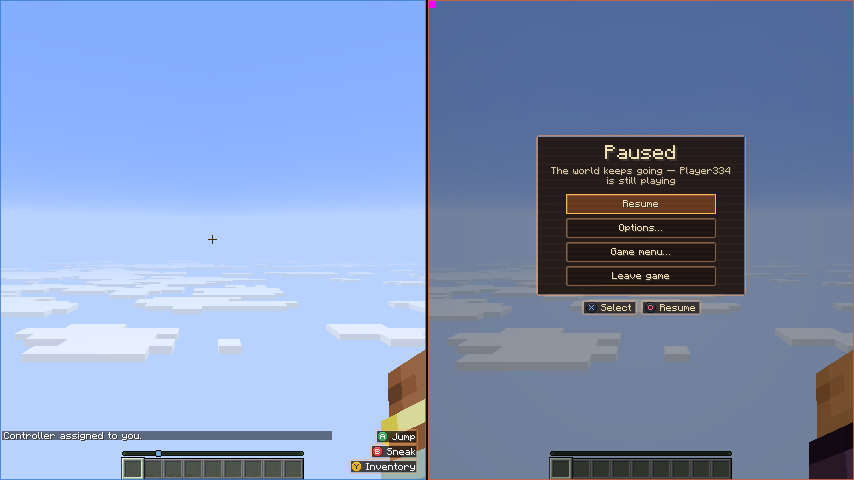
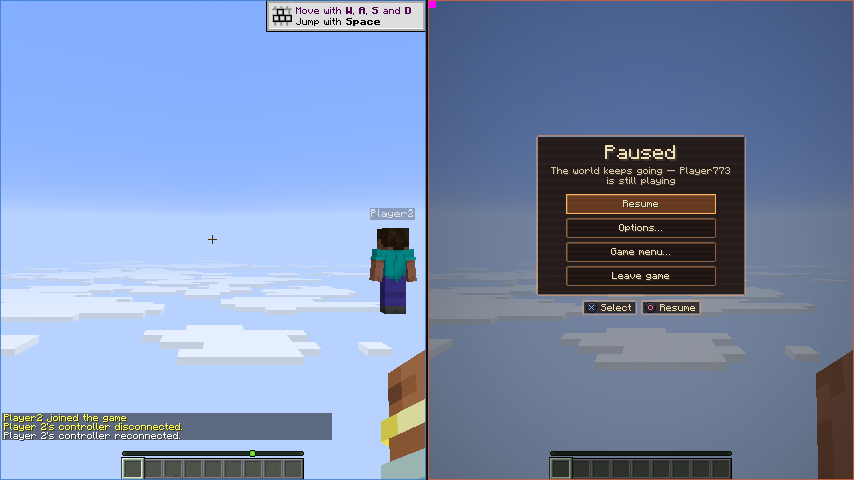
fix: take-over works in tiled windows

diff --git a/fabric/src/client/java/dev/hearthside/fabric/client/host/Party.java b/fabric/src/client/java/dev/hearthside/fabric/client/host/Party.java
@@ -1444,6 +1444,9 @@ public final class Party {
 		Integer index = slotOfController(from);
 		Integer instanceId = instanceOf.get(to);
 		if (index == null || instanceId == null) {
+			// Not expected: the press that took over recorded its controller, and the seat's slot lives as long as it.
+			HearthsideMod.LOGGER.warn("Hearthside could not hand {}'s player to {}: seat {}, controller {}", from, to,
+					index, instanceId);
 			return;
 		}
 		controllerOfSlot.put(index, to);
@@ -1459,6 +1462,10 @@ public final class Party {
 		sendToGuest(index, new ControlMessage.SetPadStyle(style));
 		sendToGuest(index, new ControlMessage.Lifecycle(LifecycleCommand.RESUME));
 		HearthsideMod.LOGGER.info("Hearthside take-over player={} controller={}", index + 1, guid);
+		if (!composite) {
+			// No card went away to show it: the chat says so.
+			chat(Component.literal("Player " + (index + 1) + " is playing on another controller now."));
+		}
 		Slot slot = slots.get(index);
 		GuestProfile profile = slot == null ? null : slot.profile;
 		if (profile != null && guid != null && !guid.equals(profile.preferredControllerGuid())) {
@@ -1666,16 +1673,17 @@ public final class Party {
 
 	/**
 	 * What a guest's reconnect card shows while their controller is disconnected (Spec E section 3.3), or null while
-	 * it's connected: who they are, and once the take-over is offered, the family of the free controllers that could
-	 * take them over (generic with none or a mix). Render thread.
+	 * it's connected: who they are, and while a free controller's A would take them over (the lowest seat offered, as
+	 * {@link JoinFlow#nextTakeover}), the family of the free controllers (generic with none or a mix). Render thread.
 	 */
 	dev.hearthside.fabric.client.ui.CardPainter.Reconnect reconnect(int seat) {
 		String controller = controllerOfSlot.get(seat);
 		dev.hearthside.core.session.SeatState state = controller == null ? null : flow.seats().get(controller);
-		boolean offered = state instanceof dev.hearthside.core.session.SeatState.TakeoverOffered;
-		if (!offered && !(state instanceof dev.hearthside.core.session.SeatState.Disconnected)) {
+		if (!(state instanceof dev.hearthside.core.session.SeatState.TakeoverOffered)
+				&& !(state instanceof dev.hearthside.core.session.SeatState.Disconnected)) {
 			return null;
 		}
+		boolean offered = flow.nextTakeover().filter(controller::equals).isPresent();
 		HostInput current = input;
 		PadStyle free = current == null || current.freePadCount() == 0 ? null : current.freePadStyle();
 		return new dev.hearthside.fabric.client.ui.CardPainter.Reconnect(who(seat), offered,
@@ -1747,10 +1755,15 @@ public final class Party {
 					}
 				}
 				case JoinFlow.Effect.OfferTakeover offer -> {
-					// Their reconnect card offers it from now on (it reads the seat's state each frame).
+					// Their reconnect card offers it from now on (it reads the seat's state each frame); with tiled windows
+					// nothing draws that card, so the chat says it.
 					Integer index = slotOfController(offer.controller());
 					if (index != null) {
 						HearthsideMod.LOGGER.info("Hearthside take-over offered player={}", index + 1);
+						if (!composite) {
+							chat(Component.literal("Player " + (index + 1) + "'s controller is still disconnected. "
+									+ "Press A on another controller to take over.").withStyle(ChatFormatting.YELLOW));
+						}
 					}
 				}
 				case JoinFlow.Effect.TookOver took -> takeOver(took.from(), took.to());

diff --git a/fabric/src/client/java/dev/hearthside/fabric/client/ui/CardPainter.java b/fabric/src/client/java/dev/hearthside/fabric/client/ui/CardPainter.java
@@ -122,8 +122,15 @@ public final class CardPainter {
 		int inner = cw - 12;
 		List<FormattedCharSequence> ask = font.split(Component.literal(RECONNECT), inner);
 		List<List<String>> offer = card.offerTakeover() ? wrap(font, TAKE_OVER, inner) : List.of();
-		int ch = 8 + 12 + 6 + ICON_H + 6 + ask.size() * 10 + (offer.isEmpty() ? 0 : 4 + offer.size() * 12) + 6;
-		Rect c = new Rect(view.x() + (view.width() - cw) / 2, view.y() + (view.height() - ch) / 2, cw, ch);
+		// Kept inside a short view (a small window, four players): first without the icon, then with the take-over line's
+		// first row only, cut short after it (the A and what it presses on stay).
+		int room = view.height() - 8;
+		boolean icon = height(ask.size(), offer.size(), true) <= room;
+		if (!icon && offer.size() > 1 && height(ask.size(), offer.size(), false) > room) {
+			offer = List.of(firstRowCut(font, offer.getFirst(), inner));
+		}
+		int ch = height(ask.size(), offer.size(), icon);
+		Rect c = new Rect(view.x() + (view.width() - cw) / 2, view.y() + Math.max(0, (view.height() - ch) / 2), cw, ch);
 		int colour = card.who().colour() & 0xFFFFFF;
 		cardBack(g, c, colour, 1f);
 		int centre = c.x() + cw / 2;
@@ -131,10 +138,12 @@ public final class CardPainter {
 		String name = font.plainSubstrByWidth(card.who().name(), inner - 10);
 		HearthDraw.colourPill(g, font, Component.literal(name), centre, y, colour);
 		y += 12 + 6;
-		// Their controller, lit in their colour as the real one is.
-		g.blitSprite(RenderPipelines.GUI_TEXTURED, HearthSprites.CONTROLLER, centre - ICON_W / 2, y, ICON_W, ICON_H,
-				0xFF000000 | colour);
-		y += ICON_H + 6;
+		if (icon) {
+			// Their controller, lit in their colour as the real one is.
+			g.blitSprite(RenderPipelines.GUI_TEXTURED, HearthSprites.CONTROLLER, centre - ICON_W / 2, y, ICON_W, ICON_H,
+					0xFF000000 | colour);
+			y += ICON_H + 6;
+		}
 		for (FormattedCharSequence line : ask) {
 			g.text(font, line, centre - font.width(line) / 2, y, HearthDraw.INK, false);
 			y += 10;
@@ -157,6 +166,28 @@ public final class CardPainter {
 
 	/** The controller icon on a reconnect card: the 13×9 sprite at twice its size. */
 	private static final int ICON_W = 26, ICON_H = 18;
+
+	/** A reconnect card's height: its pill, the icon if shown, the ask's lines and the take-over's rows. */
+	private static int height(int askLines, int offerRows, boolean icon) {
+		return 8 + 12 + 6 + (icon ? ICON_H + 6 : 0) + askLines * 10 + (offerRows == 0 ? 0 : 4 + offerRows * 12) + 6;
+	}
+
+	/** A take-over row that has to stand alone, ending in "…" (words dropped from its end until it fits). */
+	private static List<String> firstRowCut(Font font, List<String> row, int width) {
+		List<String> cut = new ArrayList<>(row);
+		while (true) {
+			List<String> shown = new ArrayList<>(cut);
+			if (shown.getLast().isEmpty()) {
+				shown.add("…");
+			} else {
+				shown.set(shown.size() - 1, shown.getLast() + "…");
+			}
+			if (cut.size() == 1 || lineWidth(font, shown) <= width) {
+				return shown;
+			}
+			cut.removeLast();
+		}
+	}
 
 	/** Words (the empty one a button glyph) in lines no wider than {@code width}. */
 	private static List<List<String>> wrap(Font font, List<String> words, int width) {

diff --git a/fabric/src/client/java/dev/hearthside/fabric/client/host/ViewOverlay.java b/fabric/src/client/java/dev/hearthside/fabric/client/host/ViewOverlay.java
@@ -171,6 +171,20 @@ final class ViewOverlay implements OverlayLayer {
 				guestView(g, font, view, compositor, context);
 			}
 		}
+		// A dropped controller (Spec E section 3.3): their view (their game, or the card they pick or join on) dims under
+		// a card until it's back or taken over. In a stratum of its own: a stratum draws its text after all its shapes, so
+		// the picker's or joining card's words would otherwise show through the veil and over the card.
+		boolean ownStratum = false;
+		for (ViewFrame view : context.views()) {
+			CardPainter.Reconnect reconnect = view.seat() == 0 ? null : party.reconnect(view.seat());
+			if (reconnect != null) {
+				if (!ownStratum) {
+					g.nextStratum();
+					ownStratum = true;
+				}
+				CardPainter.reconnect(g, font, view.rect(), reconnect);
+			}
+		}
 		// The free quarter with three players: the party panel and its live map, fading in and out with the layout.
 		party.panelAt(context.nanos(), context.reduceMotion()).ifPresent(panel -> {
 			Rect inGui = dev.hearthside.fabric.client.compositor.OverlayPass.inGui(panel.rect(), context.guiScale());
@@ -194,8 +208,8 @@ final class ViewOverlay implements OverlayLayer {
 
 	/**
 	 * What a guest's view shows over their game: their card until their game is in the world (never the bare window),
-	 * the frost over a picture at the wrong size, the reconnect card while their controller is away, and the fade of a
-	 * view with no picture yet.
+	 * the frost over a picture at the wrong size, and the fade of a view with no picture yet. (A dropped controller's
+	 * card is drawn over all of it afterwards.)
 	 */
 	private void guestView(GuiGraphicsExtractor g, Font font, ViewFrame view, Compositor compositor, OverlayContext context) {
 		Rect r = view.rect();
@@ -208,16 +222,9 @@ final class ViewOverlay implements OverlayLayer {
 		if (card != null) {
 			// Dropping in: they pick their profile right here, while everyone else plays on.
 			drawPicker(g, font, r, seat, card);
-		} else {
-			if (cover > 0f) {
-				CardPainter.joining(g, font, r, party.who(seat), party.cardStatus(seat, context.nanos()), cover,
-						context.nanos(), context.reduceMotion());
-			}
-			// Their controller dropped (Spec E section 3.3): their view dims under a card until it's back or taken over.
-			CardPainter.Reconnect reconnect = party.reconnect(seat);
-			if (reconnect != null) {
-				CardPainter.reconnect(g, font, r, reconnect);
-			}
+		} else if (cover > 0f) {
+			CardPainter.joining(g, font, r, party.who(seat), party.cardStatus(seat, context.nanos()), cover,
+					context.nanos(), context.reduceMotion());
 		}
 		// The compositor fades a view's picture itself; with no picture yet, fade the card drawn there instead, over
 		// whatever is under it (a view still gliding out of this place, or the divider).

diff --git a/fabric/src/client/java/dev/hearthside/fabric/client/dev/E2eDriver.java b/fabric/src/client/java/dev/hearthside/fabric/client/dev/E2eDriver.java
@@ -4342,7 +4342,10 @@ public final class E2eDriver {
 	 * N3 (Spec E section 3.2, plan R5): the world freezes only when everyone in it is paused. (a) Player 1 paused while
 	 * Player2 plays: the world runs and player 1's menu says who is still playing. (b) Player2 pausing too freezes it
 	 * within a second, and both menus say so; (d) a newcomer still choosing a profile doesn't count. (c) Player2 resuming
-	 * starts it again. Player 1's status is read from their menu's narration, Player2's from its log.
+	 * starts it again. Player 1's status is read from their menu's narration, Player2's from its log. First, Player2
+	 * pauses alone (START, then B) while player 1 plays: their menu draws "The world keeps going — <player 1> is still
+	 * playing" whole, wrapped as it needs and never cut short (from its layout log line; the status-line screenshot), and
+	 * player 1's menu draws its own status whole at (a) and (b).
 	 */
 	private void pauseTogether() throws Exception {
 		IntegratedServer server = minecraft.getSingleplayerServer();

diff --git a/core/src/main/java/dev/hearthside/core/session/JoinFlow.java b/core/src/main/java/dev/hearthside/core/session/JoinFlow.java
@@ -111,7 +111,7 @@ public final class JoinFlow {
 		if (control == Control.A) {
 			if (!seats.containsKey(controller)) {
 				// Only in the world (plan ruling P-10): in the lobby a free controller's A takes a free seat as ever.
-				String dropped = mode == Mode.IN_GAME ? lowestTakeoverOffered() : null;
+				String dropped = nextTakeover().orElse(null);
 				if (dropped != null) {
 					int seat = seats.get(dropped);
 					List<Effect> effects = new ArrayList<>(reassign(dropped, controller).effects());
@@ -331,7 +331,7 @@ public final class JoinFlow {
 
 	/** The dropped controller whose player a free controller's A would take over now, if any. */
 	public java.util.Optional<String> nextTakeover() {
-		return java.util.Optional.empty();
+		return java.util.Optional.ofNullable(mode == Mode.IN_GAME ? lowestTakeoverOffered() : null);
 	}
 
 	/** The controller of the lowest seat offered for take-over, or null if none is. */

diff --git a/fabric/src/client/java/dev/hearthside/fabric/client/satellite/SatelliteBoot.java b/fabric/src/client/java/dev/hearthside/fabric/client/satellite/SatelliteBoot.java
@@ -156,6 +156,7 @@ public final class SatelliteBoot {
 			pauseLine = "";
 			PauseMenuScreen.setStatus("");
 			PauseMenuScreen.setControllerAway(false);
+			pausedFor = null;
 		}
 		wasInWorld = inWorld;
 		ControlConnection connection = control;
@@ -240,7 +241,10 @@ public final class SatelliteBoot {
 			case ControlMessage.Lifecycle m when m.command() == LifecycleCommand.PAUSE -> minecraft.execute(() -> {
 				HearthsideMod.LOGGER.info("Hearthside satellite paused (controller disconnected)");
 				applier.release();
-				PauseMenuScreen.setControllerAway(true);
+				if (!Presentation.satelliteTiled()) {
+					// Player 1's game draws the reconnect card over this view. A tiled window has none: its menu stays.
+					PauseMenuScreen.setControllerAway(true);
+				}
 				Screen before = minecraft.gui.screen();
 				minecraft.pauseGame(false);
 				Screen opened = minecraft.gui.screen();

diff --git a/fabric/src/client/java/dev/hearthside/fabric/client/host/HostInput.java b/fabric/src/client/java/dev/hearthside/fabric/client/host/HostInput.java
@@ -415,6 +415,8 @@ final class HostInput implements Runnable {
 					RealMouse.handOff().padGone();
 					RealMouse.resync(minecraft);
 				} else {
+					// An A still held from a take-over went with the controller: the next one is a real press.
+					heldFromTakeover.remove(lost.player());
 					session.sendToGuest(lost.player(), new ControlMessage.Lifecycle(LifecycleCommand.PAUSE));
 					session.onPadLost(lost.player());
 				}
